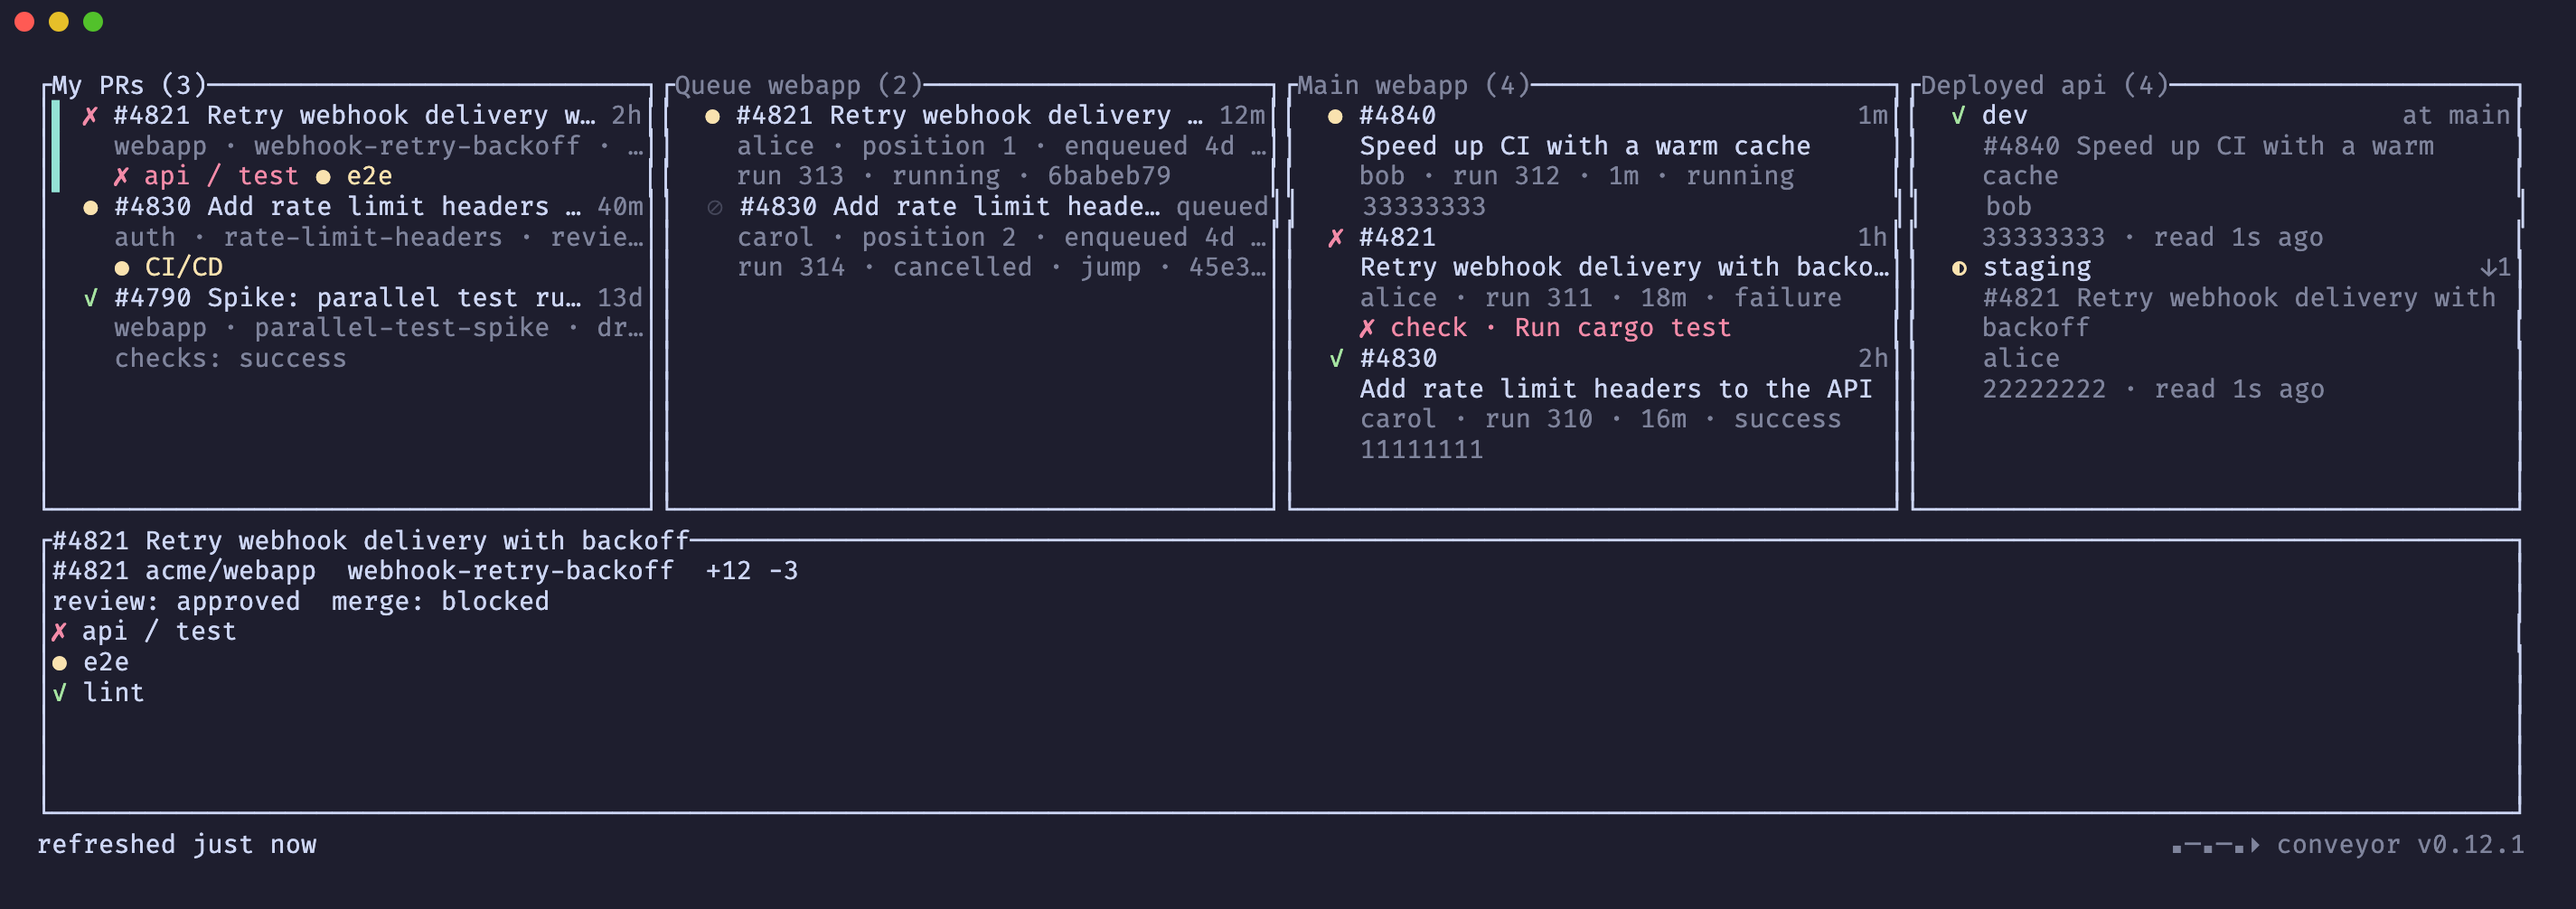
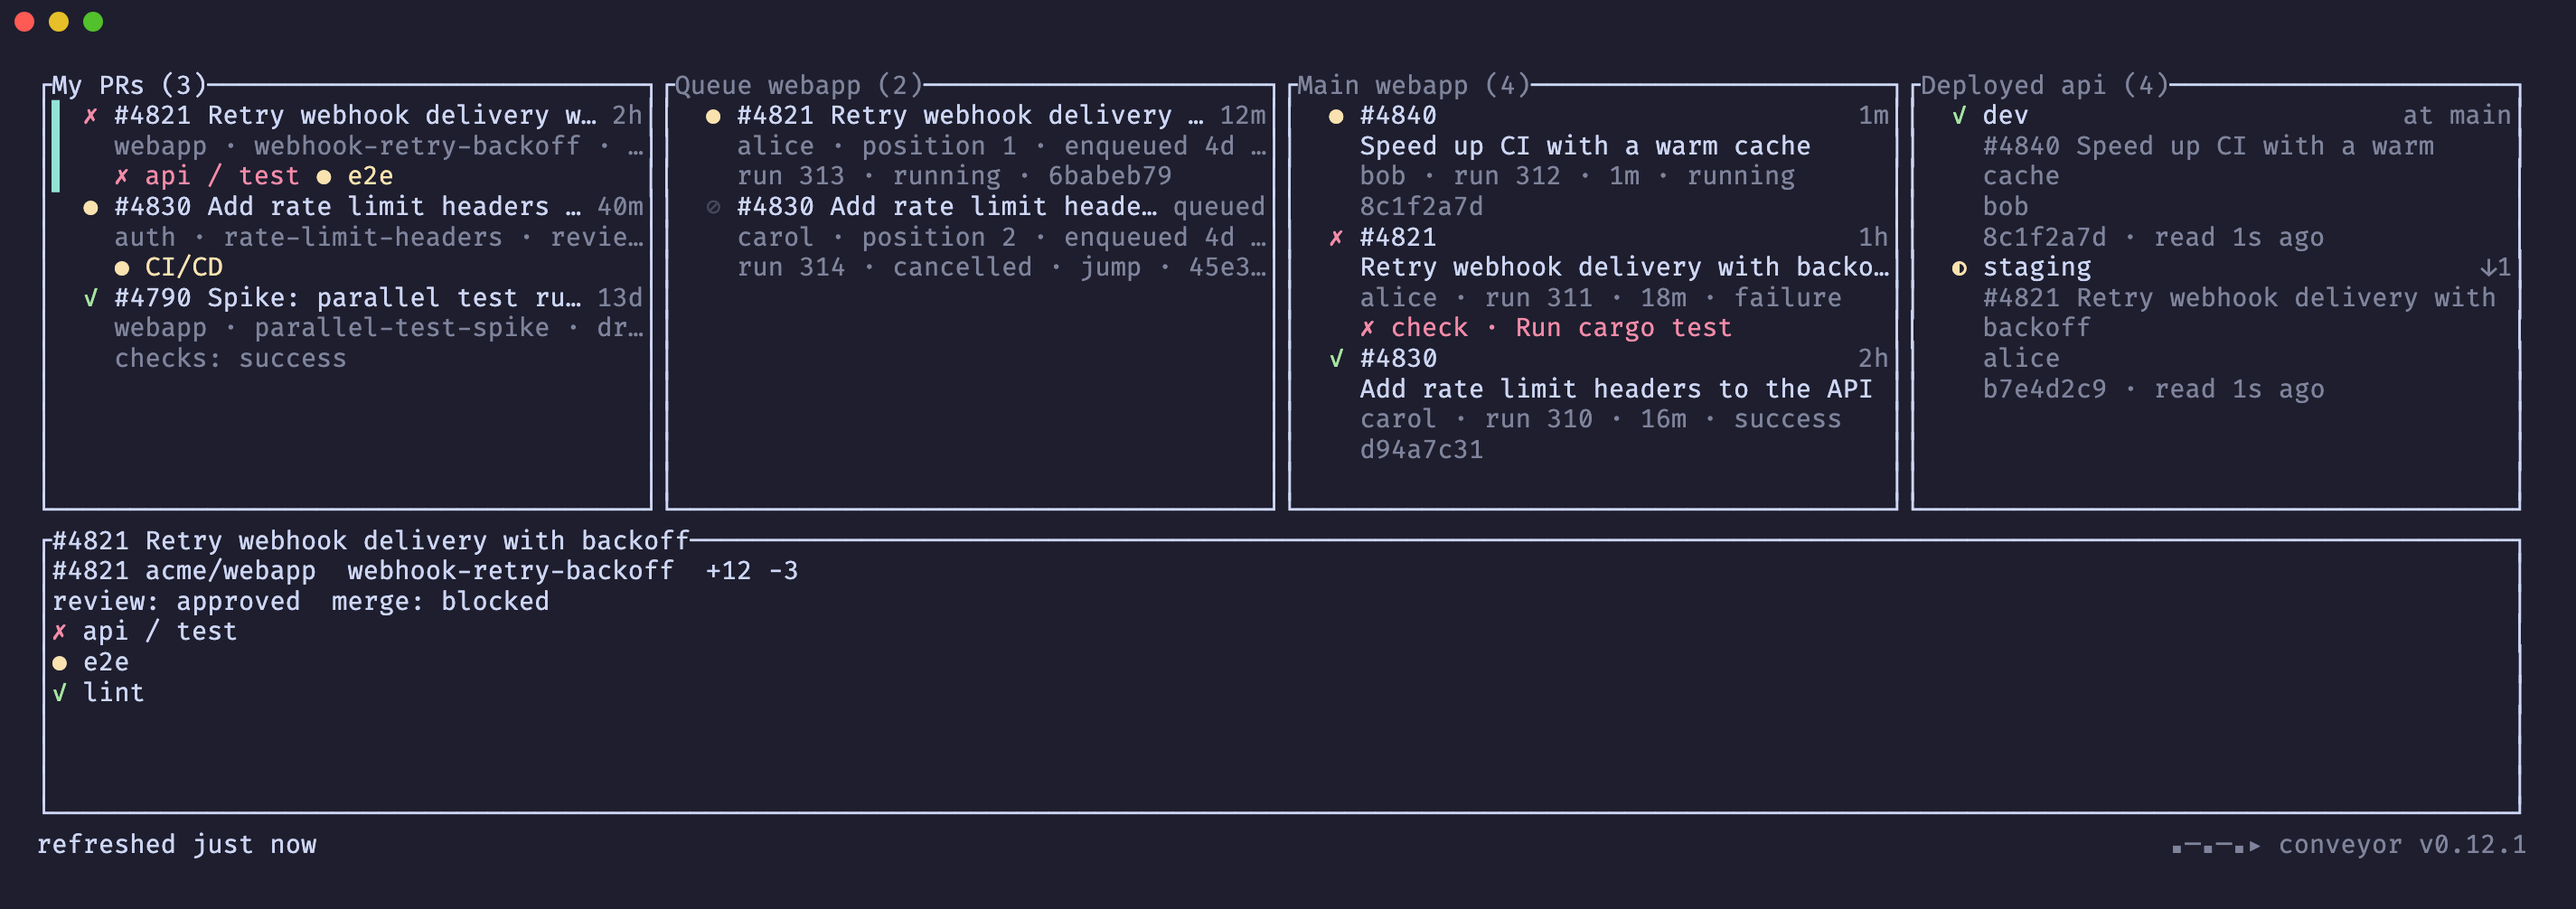
fix(screenshots): Menlo fallback for the glyphs FiraCode lacks; real-looking fixture SHAs
FiraCode Nerd Font has no ✗ ⊘ ▸, so Chrome fell back to a wider system font and every row
holding one shifted right, jogging the column borders in docs/details.png. The script now
appends Menlo (DejaVu Sans Mono on Linux) to the SVG font stack; Menlo has all three at nearly
the same advance. Fixture SHAs are hex that reads as real instead of 33333333.

diff --git a/AGENTS.md b/AGENTS.md
@@ -326,7 +326,10 @@ sentences (the help view is the single source: change `KEYS`, then the table). F
 any visible layout change run `scripts/screenshots.sh` (needs `brew install
 charmbracelet/tap/freeze`, Google Chrome, and the FiraCode Nerd Font in `~/Library/Fonts`) and
 commit the new images. Freeze lays out an SVG with the font embedded; headless Chrome
-rasterises it, because freeze's own PNG output cannot draw Nerd Font glyphs. The script never
+rasterises it, because freeze's own PNG output cannot draw Nerd Font glyphs. The script adds
+Menlo (DejaVu Sans Mono on Linux) as the SVG's fallback font family: FiraCode lacks `✗ ⊘ ▸`,
+and Chrome's default fallback is wider, so every row holding one shifted and the borders jogged.
+Fixture SHAs look real (`8c1f2a7d…`), not `33333333`. The script never
 reads the real `gh` account: `HOME` is a tempdir and a `gh` shim printing a synthetic
 `acme/*` fixture is first on PATH (through `env`, see the e2e trap below). Do not screenshot
 real data: this repository is public.
